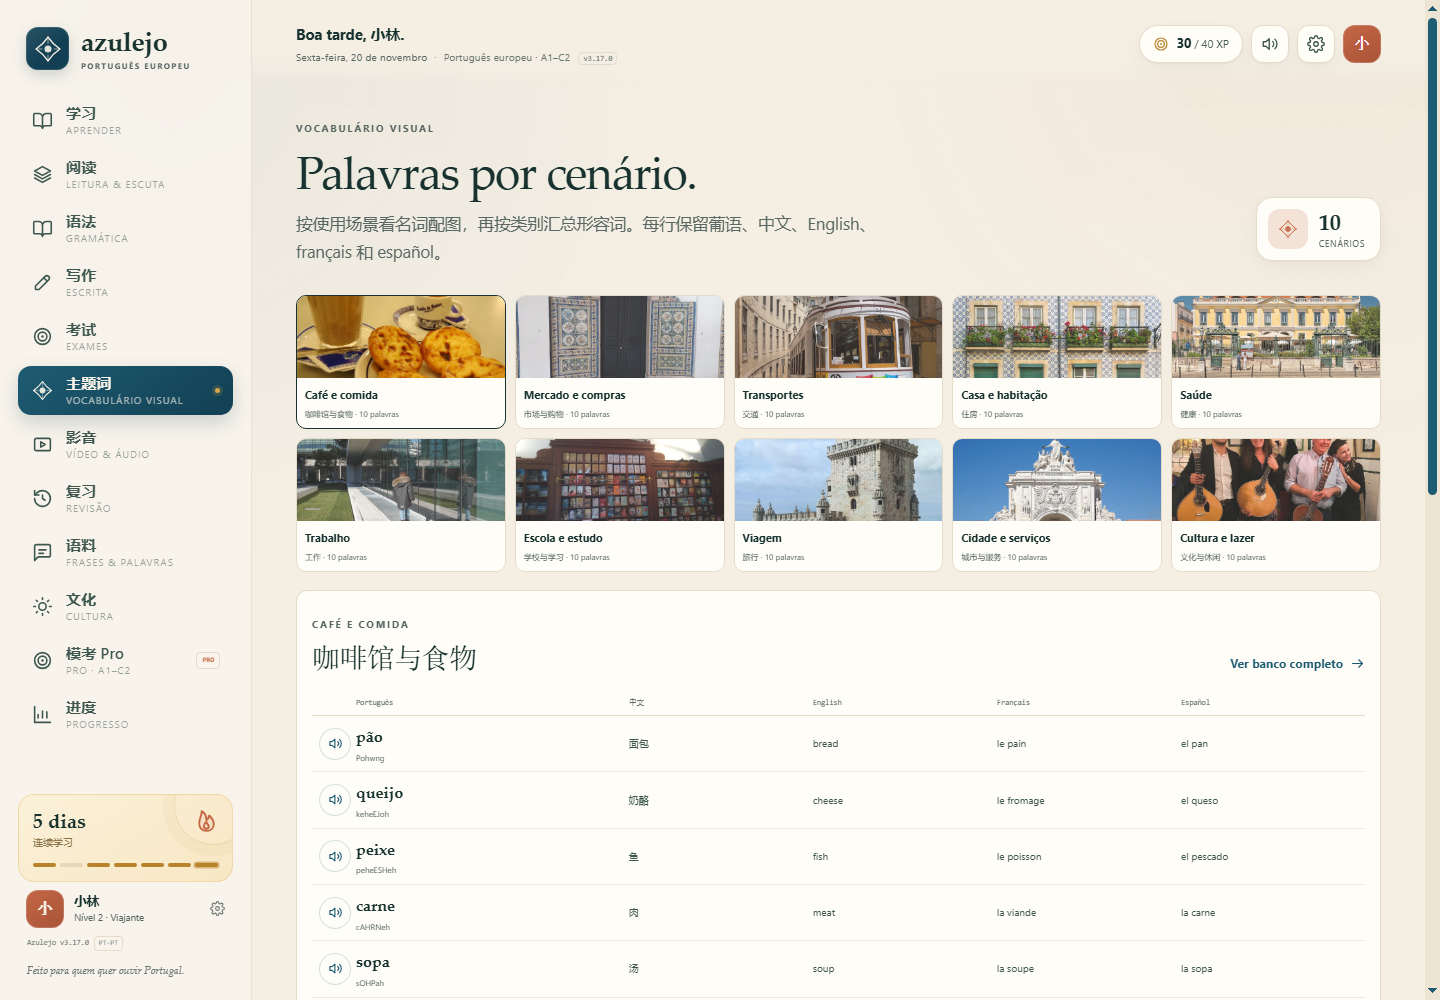
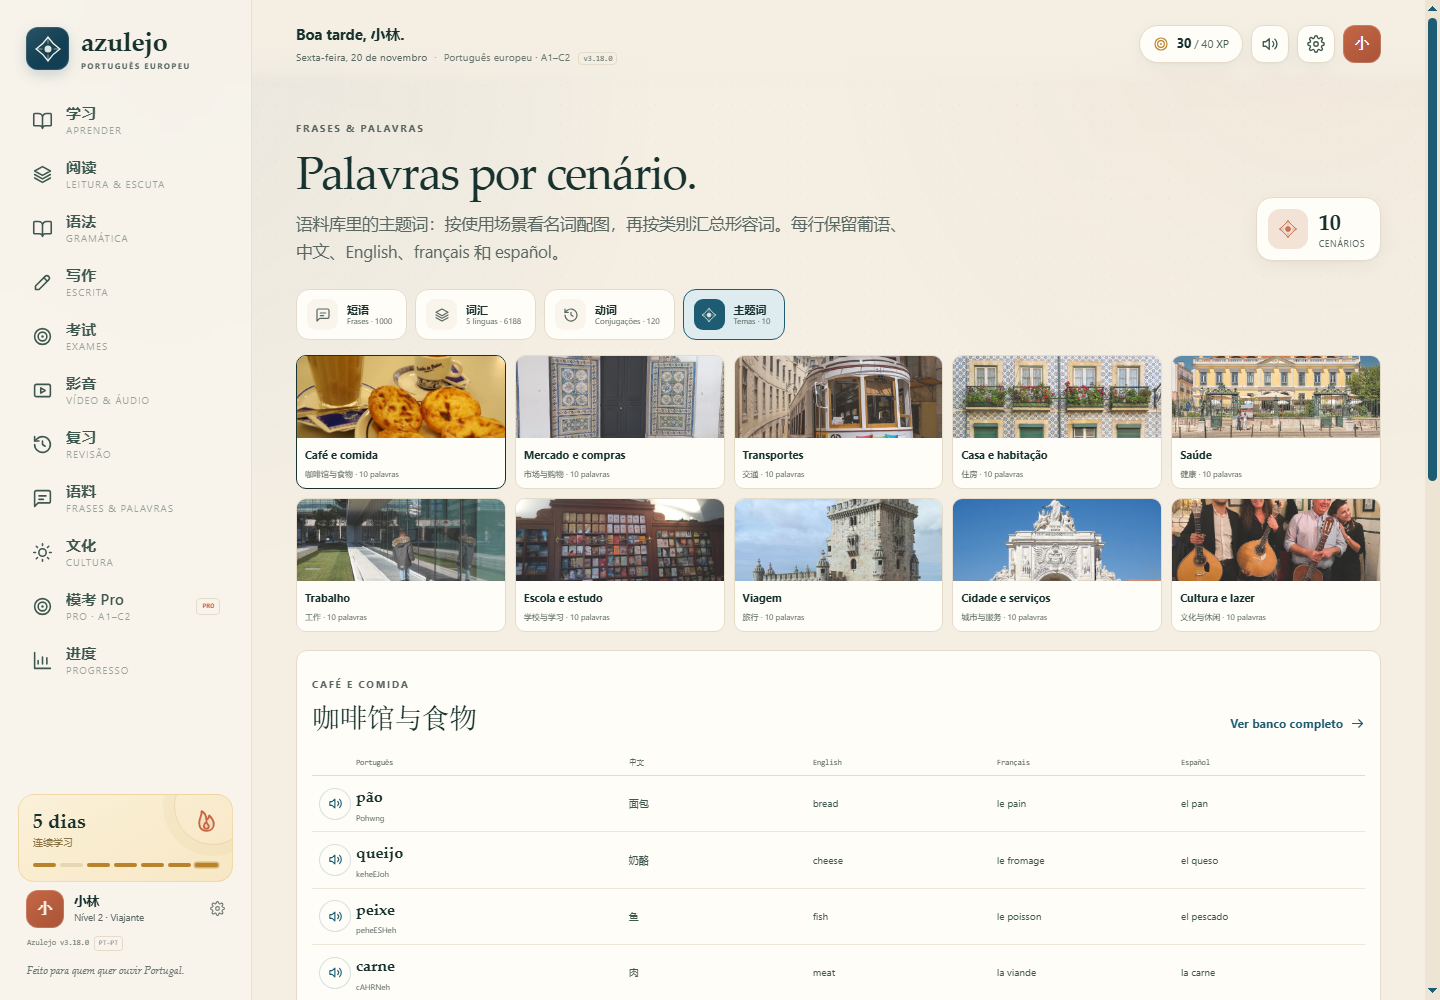
Move visual themes into vocabulary tabs

diff --git a/js/app.js b/js/app.js
@@ -25,7 +25,7 @@
   const RESOURCES = window.AZ_RESOURCES || [];
   const STORAGE_KEY = 'azulejo.state.v1';
   const VERSION_KEY = 'azulejo.version.seen';
-  const APP_VERSION = '3.17.0';
+  const APP_VERSION = '3.18.0';
   const XP_PER_LEVEL = 120;
   const LEVEL_TITLES = ['Curioso', 'Viajante', 'Conversador', 'Lisboeta', 'Contador de histórias', 'Alma portuguesa'];
 
@@ -612,7 +612,6 @@
     { id: 'grammar', label: '语法', pt: 'Gramática', href: '#/grammar', icon: 'book' },
     { id: 'writing', label: '写作', pt: 'Escrita', href: '#/writing', icon: 'edit' },
     { id: 'exams-guide', label: '考试', pt: 'Exames', href: '#/exams-guide', icon: 'target' },
-    { id: 'themes', label: '主题词', pt: 'Vocabulário visual', href: '#/themes', icon: 'flower' },
     { id: 'media', label: '影音', pt: 'Vídeo & áudio', href: '#/media', icon: 'video' },
     { id: 'review', label: '复习', pt: 'Revisão', href: '#/review', icon: 'review' },
     { id: 'phrases', label: '语料', pt: 'Frases & palavras', href: '#/phrases', icon: 'chat' },
@@ -823,7 +822,7 @@
     if (name === 'grammar') info.parts[1] ? renderGrammarChapter(info.parts[1]) : renderGrammarPage();
     if (name === 'writing') renderWritingPage();
     if (name === 'exams-guide') renderExamGuidePage();
-    if (name === 'themes') renderThemesPage();
+    if (name === 'themes') { ui.languageTab = 'themes'; renderPhrasesPage(); }
     if (name === 'media') renderMediaPage();
     if (name === 'review') renderReviewPage();
     if (name === 'phrases') renderPhrasesPage();
@@ -2541,6 +2540,9 @@
       <button class="language-tab ${ui.languageTab === 'verbs' ? 'is-active' : ''}" data-action="select-language-tab" data-tab="verbs" role="tab" aria-selected="${ui.languageTab === 'verbs'}">
         <span class="language-tab-icon">${icon('review')}</span><span><strong>动词</strong><small>Conjugações · ${(window.AZ_VERBS ? window.AZ_VERBS.verbs.length : 0)}</small></span>
       </button>
+      <button class="language-tab ${ui.languageTab === 'themes' ? 'is-active' : ''}" data-action="select-language-tab" data-tab="themes" role="tab" aria-selected="${ui.languageTab === 'themes'}">
+        <span class="language-tab-icon">${icon('flower')}</span><span><strong>主题词</strong><small>Temas · ${THEMES.length}</small></span>
+      </button>
     </div>`;
   }
 
@@ -2682,6 +2684,10 @@
     }
     if (ui.languageTab === 'verbs') {
       renderVerbsPage();
+      return;
+    }
+    if (ui.languageTab === 'themes') {
+      renderThemesPage();
       return;
     }
     const shortcut = /Mac|iPhone|iPad/.test(navigator.platform || '') ? '⌘ K' : 'Ctrl K';
@@ -3223,8 +3229,9 @@
     const words = (theme ? theme.words : []).map(thematicWord).filter(Boolean);
     const adjectives = (adj ? adj.words : []).map(thematicWord).filter(Boolean);
     $('#view').innerHTML = `
-      <div class="page themes-page">
-        ${pageHead('VOCABULÁRIO VISUAL', 'Palavras por cenário.', '按使用场景看名词配图，再按类别汇总形容词。每行保留葡语、中文、English、français 和 español。', `<div class="head-badge alt">${icon('flower')}<span><strong>${THEMES.length}</strong><small>cenários</small></span></div>`)}
+      <div class="page phrases-page themes-page">
+        ${pageHead('FRASES & PALAVRAS', 'Palavras por cenário.', '语料库里的主题词：按使用场景看名词配图，再按类别汇总形容词。每行保留葡语、中文、English、français 和 español。', `<div class="head-badge alt">${icon('flower')}<span><strong>${THEMES.length}</strong><small>cenários</small></span></div>`)}
+        ${languageTabsHTML()}
         <div class="theme-grid">
           ${THEMES.map(item => `<button class="theme-card ${item.id === ui.themeId ? 'is-active' : ''}" data-action="select-theme" data-theme="${item.id}">
             <img src="${READING_PHOTOS[item.image]?.src || 'assets/photos/cafe.jpg'}" alt="${esc(item.zh)}" loading="lazy">

diff --git a/index.html b/index.html
@@ -4,7 +4,7 @@
   <meta charset="utf-8">
   <meta name="viewport" content="width=device-width, initial-scale=1, viewport-fit=cover">
   <meta name="theme-color" content="#123f53">
-  <meta name="app-version" content="3.17.0">
+  <meta name="app-version" content="3.18.0">
   <meta name="description" content="Azulejo — 从 A1 到 C2 的欧洲葡萄牙语（pt-PT）学习应用：每级 30 节课，共 180 节；12 个情景视频与音频对话、210 个中英葡法西五语词汇、间隔复习与文化阅读。">
   <title>Azulejo · Aprender português europeu</title>
   <link rel="manifest" href="manifest.webmanifest">

diff --git a/sw.js b/sw.js
@@ -1,5 +1,5 @@
 /* Azulejo service worker — offline-first after the first visit. */
-const CACHE = 'azulejo-v3.17.0';
+const CACHE = 'azulejo-v3.18.0';
 const CORE = [
   './',
   './index.html',

diff --git a/README.md b/README.md
@@ -62,7 +62,7 @@ PT-PT 外部资源入口：
 - **独立语法库（句法 + 词法）+ 课文内讲解 + 每课练习 + 记忆钩子**：56 个语法章节，A1–C2 筛选、句法/词法切换、搜索、葡语例句配中文、英文解释、章节练习和上下章导航。词法覆盖名词、冠词、形容词、副词、动词变位组、时态体、代词、介词、连词、数量词、指小词、构词法、话语小词和复合词；每篇阅读后有「Gramática no texto」并链接对应章节，语法页另配 12 条记忆法。
 - **Escrita 写作**：A1–C2 每级 50 道原创写作题（共 300 题），随机抽题，支持粘贴或上传 `.txt`，本地四维评分，配置 `writingApiUrl` 后可接 AI 评分。
 - **考试与大纲**：CAPLE A1–C2 考试介绍、CL/PIE/CO/PIO 四项构成，按级别把功能大纲和 56 个语法章节对应起来。
-- **主题词与形容词**：10 个配图场景（咖啡馆、市场、交通、住房、健康、工作、学校、旅行、城市、文化）PT/ZH/EN/FR/ES 对照；形容词按性质、大小、颜色、情绪、状态、国籍分类。
+- **语料 → 主题词与形容词**：10 个配图场景（咖啡馆、市场、交通、住房、健康、工作、学校、旅行、城市、文化）PT/ZH/EN/FR/ES 对照；形容词按性质、大小、颜色、情绪、状态、国籍分类。入口在「语料」的词汇标签内，不再占用侧栏。
 - **每篇课文后的单词表**：每篇 **15 个本级词汇**（不会把 A1/A2 基础词塞进 C1/C2），优先取文中词，文本太短时从同级别词库补齐；按名词 / 动词 / 形容词 / 副词 / 短语分类，配中文、English 和发音。每课另有 **2 道词汇题 + 1 道词法题**。
 - **Azulejo Pro / 分级模考**：60 套完整模拟考试，A1–C2 每级 10 套。**按级别单独购买**：买 A2 只解锁 A2 的 10 套，不捆绑其他级别。每套覆盖阅读、听力、写作、口语，带计时、成绩报告和错题解释。
 - **销售与运营配置**：`js/config.js` 填支付链接/联系方式；`tools/make-license.mjs` 生成签名许可证；内置本地事件埋点，可接分析端点。
@@ -161,7 +161,7 @@ Node.js 仅用于启动静态服务器，应用本身没有构建步骤、没有
 
 ## 版本号与更新提示
 
-当前版本：**v3.17.0**。
+当前版本：**v3.18.0**。
 
 - 顶栏、侧栏底部和「设置」里都会显示当前版本号。
 - 当本地记录的版本号与 `APP_VERSION` 不一致时，打开应用会弹出 `Azulejo atualizado para vX.Y.Z` 提示。

diff --git a/CHANGELOG.md b/CHANGELOG.md
@@ -1,5 +1,12 @@
 # Changelog
 
+## 3.18.0 — 2026-11-20
+
+- Moved **主题词 / Vocabulário visual** into the **语料 → 词汇** tabs instead of a separate sidebar entry.
+- Added a fourth language tab: 短语 / 词汇 / 动词 / 主题词.
+- Kept `#/themes` as a compatibility route that opens the 主题词 tab.
+- Bumped the service worker cache to `azulejo-v3.18.0`.
+
 ## 3.17.0 — 2026-11-20
 
 - Added a **10-minute-per-lesson intensive dossier** for every B1–C2 lesson: the unit’s core and lab readings are combined into one long reading, with 25 level words, 6 grammar points and comprehension questions.
